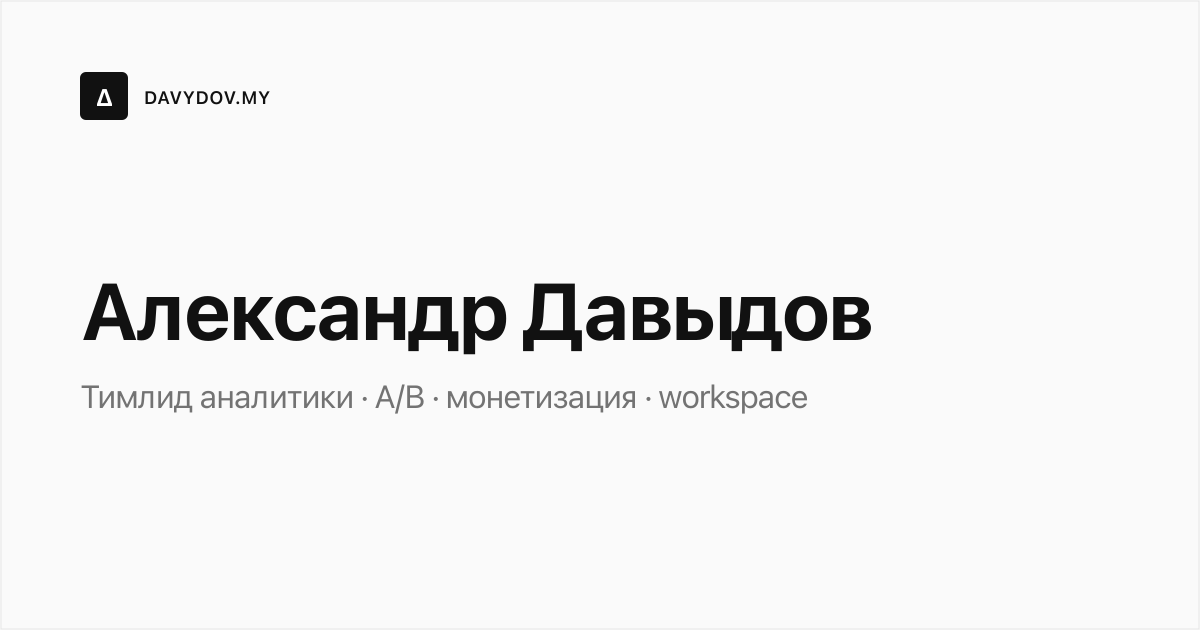
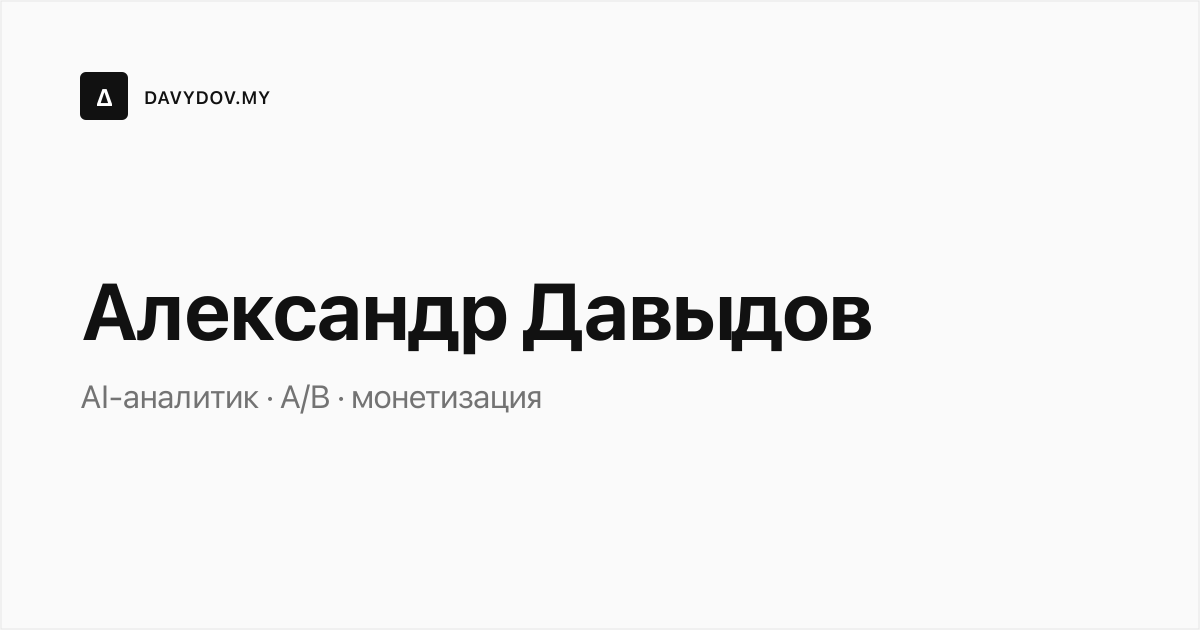
Главная: фраза про агента вместо «эксперименты для платформ»
Человек с доклада попадал на страницу, где про AI-аналитика не было
ни слова: ни в заголовке, ни в подзаголовке, ни в одной из двадцати двух
внутренних ссылок.

Первая строка — «Разбираю, сколько работы аналитика можно отдать агенту
и чем это проверять», вторая — «Передаваемость задачи зависит не
от сложности, а от того, объявлены ли решения». Обе формулировки авторские:
первая из названия доклада, вторая — вывод из него. Строка про девять лет
и четыре компании осталась третьей: она отвечает на «кто это».

§ 01 был «Что можно изучить» с пятью карточками курсов. Стал «Что отдать
агенту»: три первых разбора серии и карточка доклада на Матемаркетинге.
Ссылка «Все курсы» заменена на «Вся серия».

§ 02 потерял карточки калькуляторов и глоссария — они в архиве.

Кнопки в герое: было «Для компаний» и «Менторство», стало «AI-аналитик»
и «Доклад 26 ноября». Оба адреса остались в меню, а с главной теперь
ведут два первых шага по теме.

Теги: «AI-аналитик» первым. Счётчик «12 моделей в workspace» — на деле
их девять, поправлен. Ссылка на Simulative — на новый адрес
app.simulative.ru/course/14/. Подпись «Курсы и лекции» над площадками
стала ссылкой на /teaching/.

title, description и og — все три вхождения каждого: «аналитика и курсы»
больше не описывает сайт. OG-карточка главной пересобрана генератором,
подзаголовок «AI-аналитик · A/B · монетизация».

В карточке доклада не стал ставить знак ∅ вместо номера: он означает
[…]

Changed region(s): [[0.0617, 0.6032, 0.6783, 0.6635]]

diff --git a/index.html b/index.html
@@ -3,22 +3,22 @@
 <head>
     <meta charset="UTF-8">
     <meta name="viewport" content="width=device-width, initial-scale=1.0">
-    <title>Саша Давыдов — аналитика и курсы</title>
+    <title>Саша Давыдов — AI-аналитик и эксперименты</title>
     <meta name="author" content="Александр Давыдов"/>
     <link rel="canonical" href="https://davydov.my/"/>
-    <meta name="description" content="Эксперименты и монетизация для платформ и двусторонних рынков. A/B там, где классический тест ломается. Консультирую команды, веду курсы."/>
+    <meta name="description" content="Сколько работы аналитика можно отдать агенту и чем это проверять. Стенды с известной правдой, четыре способа проверки, доклад на Матемаркетинге’26."/>
     <meta property="og:type" content="website"/>
     <meta property="og:site_name" content="davydov.my"/>
-    <meta property="og:title" content="Саша Давыдов — аналитика и курсы"/>
-    <meta property="og:description" content="Эксперименты и монетизация для платформ и двусторонних рынков. A/B там, где классический тест ломается. Консультирую команды, веду курсы."/>
+    <meta property="og:title" content="Саша Давыдов — AI-аналитик и эксперименты"/>
+    <meta property="og:description" content="Сколько работы аналитика можно отдать агенту и чем это проверять. Стенды с известной правдой, четыре способа проверки, доклад на Матемаркетинге’26."/>
     <meta property="og:url" content="https://davydov.my/"/>
     <meta property="og:image" content="https://davydov.my/assets/og/home.png"/>
     <meta property="og:image:width" content="1200"/>
     <meta property="og:image:height" content="630"/>
     <meta property="og:locale" content="ru_RU"/>
     <meta name="twitter:card" content="summary_large_image"/>
-    <meta name="twitter:title" content="Саша Давыдов — аналитика и курсы"/>
-    <meta name="twitter:description" content="Эксперименты и монетизация для платформ и двусторонних рынков. A/B там, где классический тест ломается. Консультирую команды, веду курсы."/>
+    <meta name="twitter:title" content="Саша Давыдов — AI-аналитик и эксперименты"/>
+    <meta name="twitter:description" content="Сколько работы аналитика можно отдать агенту и чем это проверять. Стенды с известной правдой, четыре способа проверки, доклад на Матемаркетинге’26."/>
     <link rel="icon" href="/favicon.svg" type="image/svg+xml"/>
     <link rel="icon" href="/favicon.ico" sizes="any"/>
     <link rel="stylesheet" href="/style.css"/>
@@ -73,20 +73,21 @@
       <h1 class="display">Саша<br>Давыдов<span class="accent-dot">.</span><span class="caret"></span></h1>
     </div>
     <div class="hero-right reveal">
-      <p class="hero-lede">Эксперименты и решения для платформ и двусторонних рынков.</p>
-      <p class="hero-sub">9+ лет в Дзене, inDrive, Самокате, Ситидрайве. Монетизация · pricing · A/B на платформах с network effects.</p>
+      <p class="hero-lede">Разбираю, сколько работы аналитика можно отдать агенту и чем это проверять.</p>
+      <p class="hero-sub">Передаваемость задачи зависит не от сложности, а от того, объявлены ли решения. Необъявленное решение всё равно примет модель.</p>
+      <p class="hero-sub">9+ лет в Дзене, inDrive, Самокате, Ситидрайве. Лид аналитики, преподаватель.</p>
     </div>
     <div style="grid-column:1/span 12;height:64px"></div>
     <div class="tags reveal" style="grid-column:1/span 6;align-self:end">
+      <span class="tag">AI-аналитик</span>
+      <span class="tag">AI-evals</span>
       <span class="tag">A/B-эксперименты</span>
       <span class="tag">монетизация</span>
-      <span class="tag">AI-evals</span>
-      <span class="tag">аналитика-лид</span>
       <span class="tag">ментор</span>
     </div>
     <div class="ctas reveal" style="grid-column:7/span 6">
-      <a href="/companies/" class="btn btn-primary">Для компаний <span class="chev">→</span></a>
-      <a href="/career/" class="btn btn-ghost">Менторство</a>
+      <a href="/ai-analyst/" class="btn btn-primary">AI-аналитик <span class="chev">→</span></a>
+      <a href="/talks/" class="btn btn-ghost">Доклад 26 ноября</a>
     </div>
   </div>
 </section>
@@ -104,8 +105,8 @@
   </div>
   <div class="stat">
     <span class="stat-idx">03</span>
-    <div class="stat-num">12</div>
-    <div class="stat-lbl">моделей в workspace</div>
+    <div class="stat-num">9</div>
+    <div class="stat-lbl">симуляторов в workspace</div>
   </div>
   <div class="stat">
     <span class="stat-idx">04</span>
@@ -115,60 +116,47 @@
 </div>
 
 <div class="companies">
-  <span class="companies-label">Курсы и лекции</span>
+  <a class="companies-label" href="/teaching/">Преподаю →</a>
   <a class="company" href="https://karpov.courses/simulator-ab" rel="noopener">karpov.courses<span class="company-role">автор симулятора A/B</span></a>
   <span class="company">РАНХиГС<span class="company-role">магистратура</span></span>
   <a class="company" href="https://netology.ru/programs/digital_marketing_bhe" rel="noopener">Нетология<span class="company-role">магистратура</span></a>
-  <a class="company" href="https://simulative.ru/data-analyst" rel="noopener">Simulative<span class="company-role">авторский блок Power BI</span></a>
+  <a class="company" href="https://app.simulative.ru/course/14/" rel="noopener">Simulative<span class="company-role">авторский блок Power BI</span></a>
 </div>
 
-<section class="courses-wrap" aria-labelledby="sec-courses">
+<section class="courses-wrap" aria-labelledby="sec-ai">
   <div class="sec-head">
-    <div style="grid-column:1/span 6">
-      <div class="sec-kicker">§ 01 — КУРСЫ</div>
-      <h2 class="sec-title" id="sec-courses">Что можно<br>изучить.</h2>
+    <div>
+      <div class="sec-kicker">§ 01 — AI-АНАЛИТИК</div>
+      <h2 class="sec-title" id="sec-ai">Что отдать<br>агенту.</h2>
     </div>
     <div class="sec-right">
-      Шесть курсов на разных платформах. От базовой статистики A/B до causal-методов уровня senior.
-      <div style="margin-top:16px"><a class="sec-link" href="/courses/">Все курсы →</a></div>
+      <p>Стенды с известной правдой, разметка живого бэклога по образу результата и четыре способа проверки: эталон, разложение, регрессия, инварианты. Семь разборов, читать лучше подряд.</p>
+      <div style="margin-top:16px"><a class="sec-link" href="/ai-analyst/">Вся серия →</a></div>
     </div>
   </div>
   <div class="courses-grid">
-    <a class="course" href="/lab/ab-stat-os/">
-      <div class="course-meta"><span class="course-num">01</span><span>A/B / MIDDLE→SENIOR</span></div>
-      <h3>Статистика A/B-тестирования</h3>
-      <p>Метрики, CUPED, типовые ошибки</p>
+    <a class="course" href="/workspace/articles/ai-analyst-checks/">
+      <div class="course-meta"><span class="course-num">01</span><span>РАЗБОР ПЕРВЫЙ</span></div>
+      <h3>Как я строил AI-аналитика и что придумывал, чтобы ему не верить на слово</h3>
+      <p>Сборка целиком: данные, семантический слой, агент. Шесть этапов, семнадцать проверок и числа, которых я не ожидал.</p>
       <span class="course-arrow">↗</span>
     </a>
-    <a class="course" href="/lab/monetization/">
-      <div class="course-meta"><span class="course-num">02</span><span>МОНЕТИЗАЦИЯ / MIDDLE</span></div>
-      <h3>Математика монетизации рекламы</h3>
-      <p>Модели дохода, давление на метрики</p>
+    <a class="course" href="/workspace/articles/quiet-wrong-answers/">
+      <div class="course-meta"><span class="course-num">02</span><span>РАЗБОР ВТОРОЙ</span></div>
+      <h3>Продакт задал двадцать вопросов AI-аналитику</h3>
+      <p>Он не врёт — он переспрашивает. А когда ответить на уточнение некому, отвечает сам себе.</p>
       <span class="course-arrow">↗</span>
     </a>
-    <a class="course" href="/lab/ab-decisions/">
-      <div class="course-meta"><span class="course-num">03</span><span>A/B / MIDDLE</span></div>
-      <h3>A/B-решения</h3>
-      <p>Как читать результат и принимать решение</p>
+    <a class="course" href="/workspace/articles/declare-and-extract/">
+      <div class="course-meta"><span class="course-num">03</span><span>РАЗБОР ТРЕТИЙ</span></div>
+      <h3>Как получить от AI-аналитика ответ на задачу</h3>
+      <p>Задача из шести слов и пять решений внутри неё. Семь шагов между задачей и принятым числом.</p>
       <span class="course-arrow">↗</span>
     </a>
-    <a class="course" href="/lab/quasi-experiments/">
-      <div class="course-meta"><span class="course-num">04</span><span>CAUSAL / SENIOR</span></div>
-      <h3>Квазиэксперименты</h3>
-      <p>Каузальный анализ для платформ с network effects</p>
-      <span class="course-arrow">↗</span>
-    </a>
-    <a class="course" href="/lab/product-analytics/">
-      <div class="course-meta"><span class="course-num">05</span><span>ПРОДУКТ / JUNIOR→SENIOR</span></div>
-      <h3>Аналитика продукта</h3>
-      <p>Читать систему, а не цифры</p>
-      <span class="course-arrow">↗</span>
-    </a>
-    <a class="course course--upcoming" href="https://karpov.courses/simulator-ab" target="_blank" rel="noopener noreferrer">
-      <div class="course-meta"><span class="course-num">06</span><span>A/B / SENIOR · KARPOV.COURSES</span></div>
-      <h3>Продвинутый Симулятор A/B-тестов</h3>
-      <p class="course-status">Выходит 31 августа 2026</p>
-      <p>Расширенная версия знаменитого симулятора karpov.courses — методы повышения чувствительности, продвинутые статистические критерии, реальные кейсы рекламной монетизации.</p>
+    <a class="course" href="/talks/">
+      <div class="course-meta"><span class="course-num">26.11</span><span>МАТЕМАРКЕТИНГ’26 · ДОКЛАД</span></div>
+      <h3>Сколько работы аналитика можно отдать агенту и чем это проверять</h3>
+      <p class="course-status">Москва, ИНТЦ Кластер Ломоносов</p>
       <span class="course-arrow">↗</span>
     </a>
   </div>
@@ -190,18 +178,6 @@
       <div class="course-meta"><span class="course-num">01</span><span>СИМУЛЯТОРЫ</span></div>
       <h3>Симуляторы</h3>
       <p>8 симуляторов · платформы, рекламные аукционы, AI-evals</p>
-      <span class="course-arrow">↗</span>
-    </a>
-    <a class="course" href="/workspace/calculators/">
-      <div class="course-meta"><span class="course-num">02</span><span>КАЛЬКУЛЯТОРЫ</span></div>
-      <h3>Калькуляторы</h3>
-      <p>6 интерактивных моделей · монетизация, A/B, FP&amp;A</p>
-      <span class="course-arrow">↗</span>
-    </a>
-    <a class="course" href="/workspace/glossary/">
-      <div class="course-meta"><span class="course-num">03</span><span>ГЛОССАРИЙ</span></div>
-      <h3>Глоссарий</h3>
-      <p>60 терминов · с примечаниями, антипаттернами и кросс-ссылками</p>
       <span class="course-arrow">↗</span>
     </a>
   </div>
